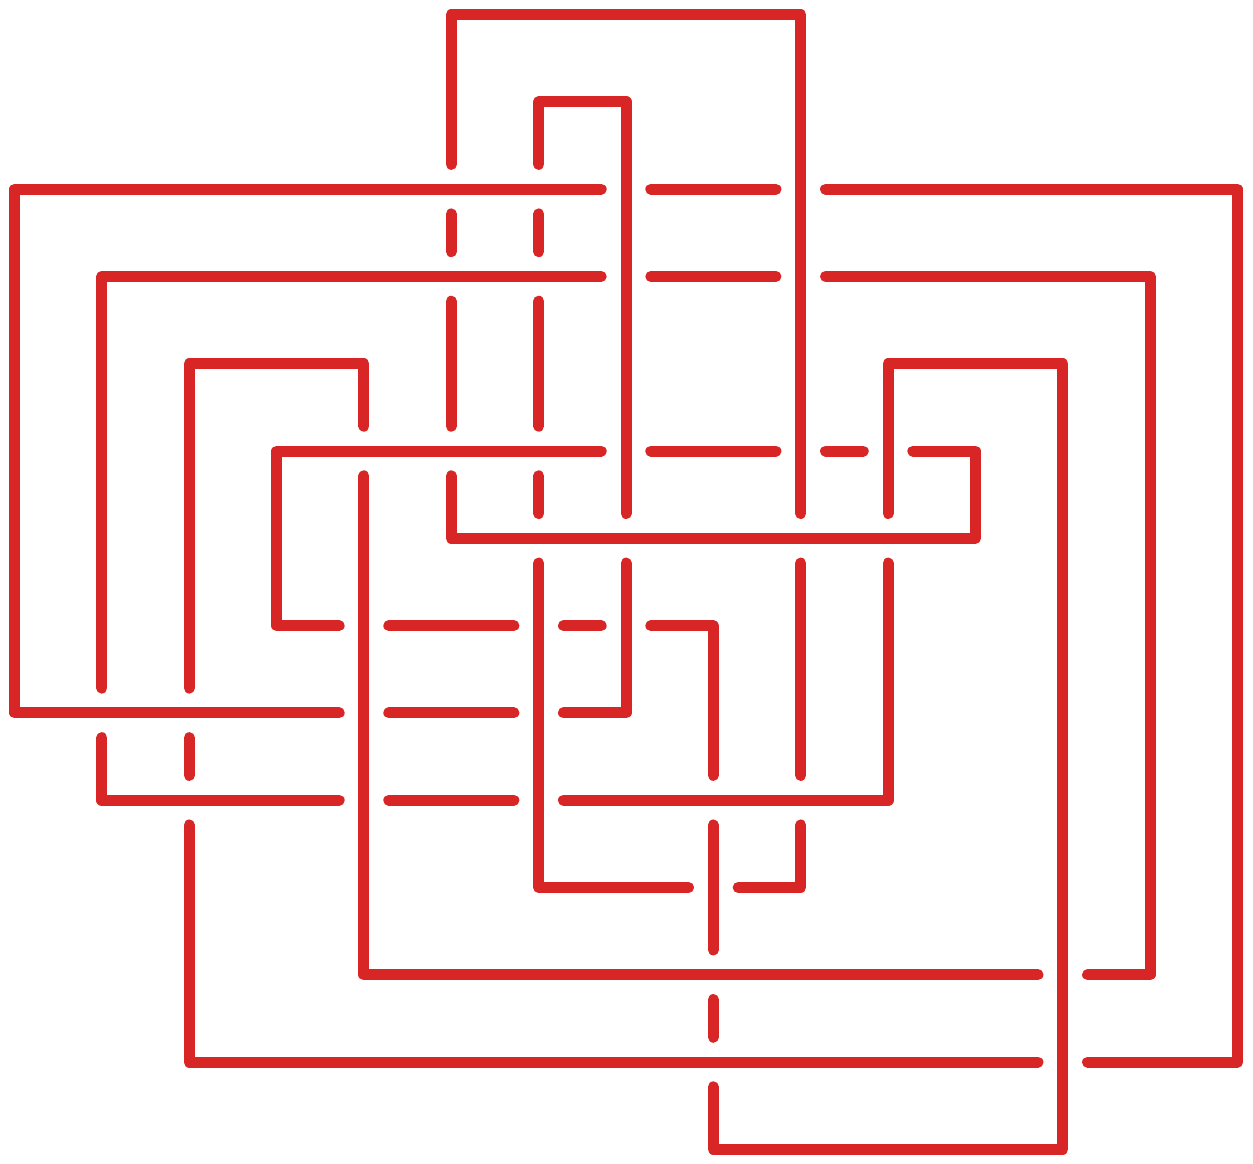
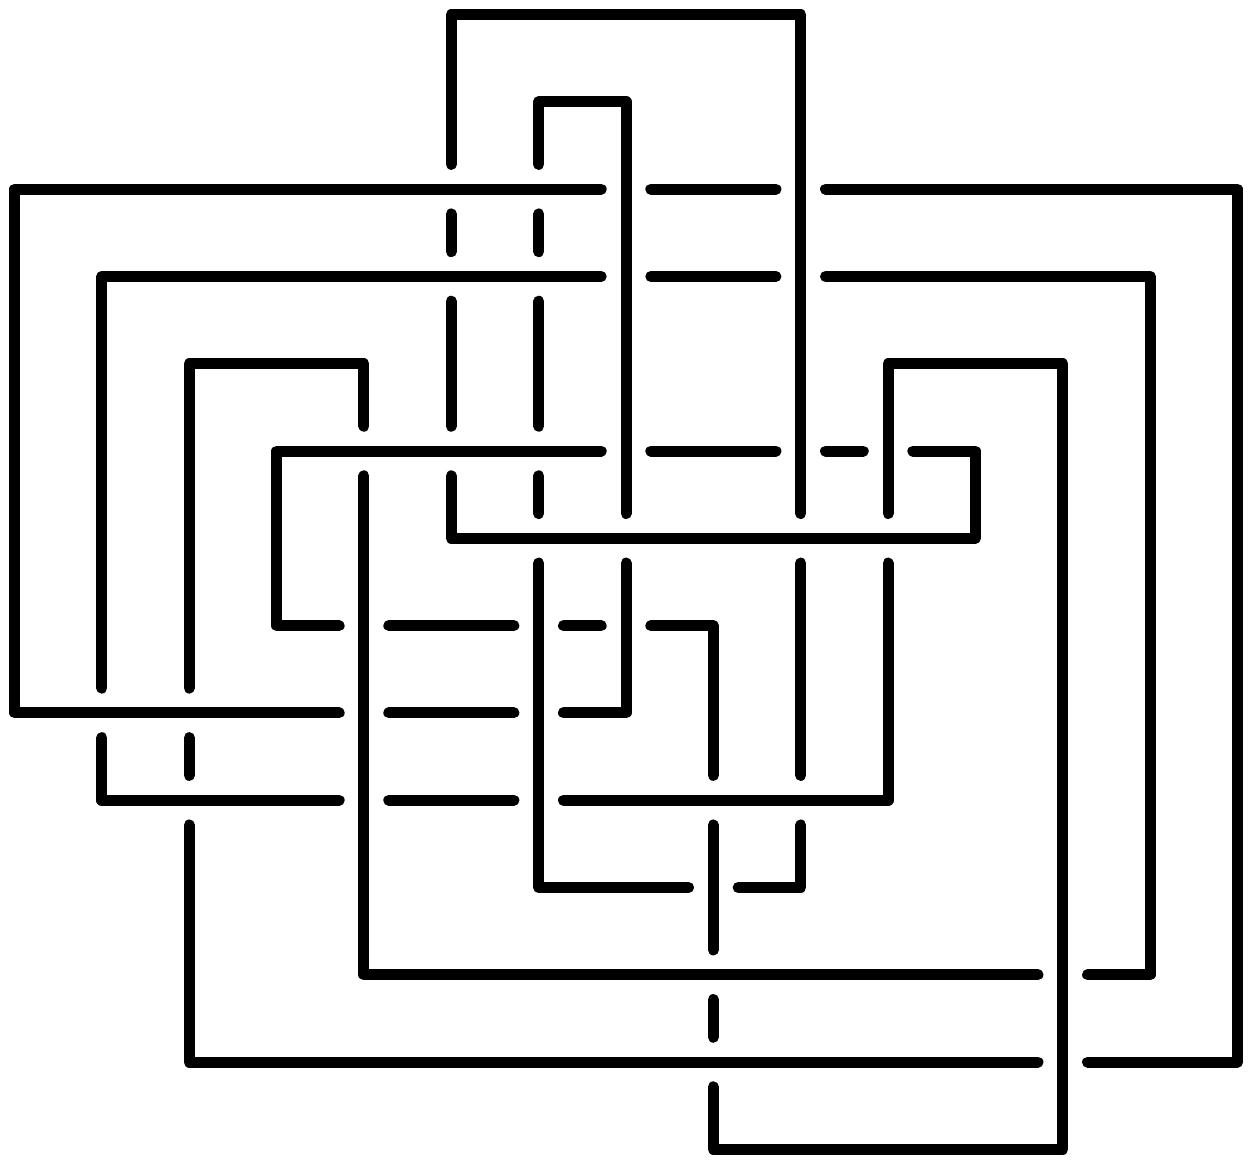
Render single-component knots in black
The K_census and K_friend PNGs were being drawn in plink's default
component-0 color (red), which visually collides with the red R strand
in the RBG_link renderings. Force single-component links to black in
render_example_knots.py so the pair diagrams read as \"the knots\" and
the RBG link's red stands out.

Changed region(s): [[0.0, 0.0, 0.996, 1.0]]

diff --git a/Code/render_example_knots.py b/Code/render_example_knots.py
@@ -44,10 +44,23 @@ def _load_pd(path):
         return ast.literal_eval(f.read().strip())
 
 
-def _render_link_to_pdf(link, pdf_path):
+def _force_black(editor):
+    """Recolor every arrow black. Used for single-component knots so they
+    don't collide visually with the red R component of the RBG link."""
+    for arrow in editor.Arrows:
+        arrow.color = "#000000"
+        try:
+            editor.canvas.itemconfig(arrow.lines[0], fill="#000000") if arrow.lines else None
+        except Exception:
+            pass
+
+
+def _render_link_to_pdf(link, pdf_path, force_black=False):
     editor = plink.LinkEditor()
     diagram = OrthogonalLinkDiagram(link)
     editor.unpickle(*diagram.plink_data())
+    if force_black:
+        _force_black(editor)
     try:
         editor.zoom_to_fit()
     except Exception:
@@ -73,7 +86,8 @@ def render_pd_file(pd_path):
     base = pd_path[: -len(".pd.txt")] if pd_path.endswith(".pd.txt") else os.path.splitext(pd_path)[0]
     pdf_path = base + ".pdf"
     png_path = base + ".png"
-    _render_link_to_pdf(link, pdf_path)
+    force_black = len(link.link_components) == 1
+    _render_link_to_pdf(link, pdf_path, force_black=force_black)
     _pdf_to_png(pdf_path, png_path)
     return png_path
 
